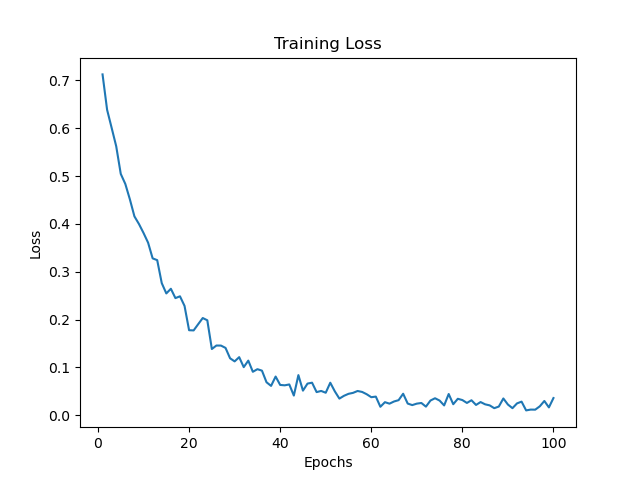
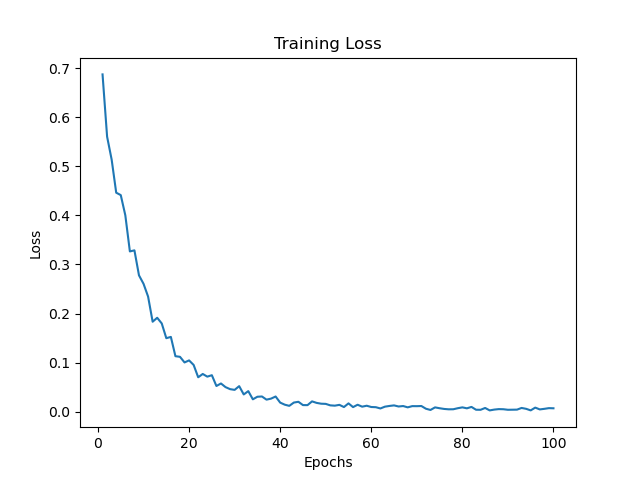
updates

diff --git a/data_cleaning/data_cleaning.py b/data_cleaning/data_cleaning.py
@@ -5,6 +5,16 @@ from nltk.tokenize import word_tokenize
 import sys
 from os.path import dirname, abspath
 
+########################################################################################
+#    Citation - reused with modification from:
+#
+#    Title: patient_trajectory_prediction
+#    Author: JamilProg
+#    Date: 10/22/2020
+#    Availability: https://github.com/JamilProg/patient_trajectory_prediction/blob/master/data_cleaning/noteEvents_preproc.py
+#
+########################################################################################
+
 # avoid having to copy files around manually
 parent_path = dirname(dirname(abspath(__file__)))
 samples_path = os.path.join(parent_path, 'generate_samples/data/output')
@@ -159,7 +169,6 @@ tens = {"2": "twenty", "3": "thirty", "4": "fourty", "5": "fifty",
         "6": "sixty", "7": "seventy", "8": "eighty", "9": "ninety"}
 grand = {0: " billion ", 1: " million ", 2: " thousand ", 3: ""}
 
-# This is copied directly form the original author and needs to be cited
 def three_dig_to_words(val):
     """ Function converting number to words of 3 digit
     Code from Barath Kumar
@@ -177,7 +186,6 @@ def three_dig_to_words(val):
             ans = ans + ones[val[2]]
         return ans
 
-# This is copied directly form the original author and needs to be cited
 def num_to_words(value):
     """ This function takes an integer as an input, and outputs its text version
     Works with integer from 0 to 999 999 999 999.
@@ -201,7 +209,6 @@ def num_to_words(value):
     result = re.sub(r'(^ *| *$)', ' ', result)
     return result
 
-# This is copied directly form the original author and needs to be cited
 def num_to_text(text):
   text = text.strip()
   cleaned_text = ""

diff --git a/PyTorch_scripts/mortality_prediction/02_FFN_mortality.py b/PyTorch_scripts/mortality_prediction/02_FFN_mortality.py
@@ -270,13 +270,13 @@ def parse_arguments():
     parser = argparse.ArgumentParser()
     parser.add_argument('--inputdata', type=str, default='data/prepared_data.npz', metavar='<visit_file>')
     parser.add_argument('--inputdata2', type=str, default='data/prepared_data_deathTime.npz', metavar='<visit_file>')
-    parser.add_argument('--hiddenDimSize', type=int, default=50, help='Size of FFN hidden layer')
+    parser.add_argument('--hiddenDimSize', type=int, default=100, help='Size of FFN hidden layer')
     parser.add_argument('--batchSize', type=int, default=50, help='Batch size.')
-    parser.add_argument('--nEpochs', type=int, default=100, help='Number of training iterations.')
+    parser.add_argument('--nEpochs', type=int, default=50, help='Number of training iterations.')
     parser.add_argument('--lr', type=float, default=0.001, help='Learning rate.')
     parser.add_argument('--dropOut', type=float, default=0.5, help='FFN Dropout.')
     parser.add_argument('--kFold', type=int, default=5, help='K value (int) of K-fold cross-validation.')
-    parser.add_argument('--withCCS', help="add CCS features in the input.")
+    parser.add_argument('--withCCS', type=int, default=0, help="add CCS features in the input.")
 
     ARGStemp = parser.parse_args()
     return ARGStemp
@@ -285,4 +285,6 @@ def parse_arguments():
 if __name__ == '__main__':
     global ARGS
     ARGS = parse_arguments()
+    torch.manual_seed(6250)
+    random.seed(6250)
     train()
